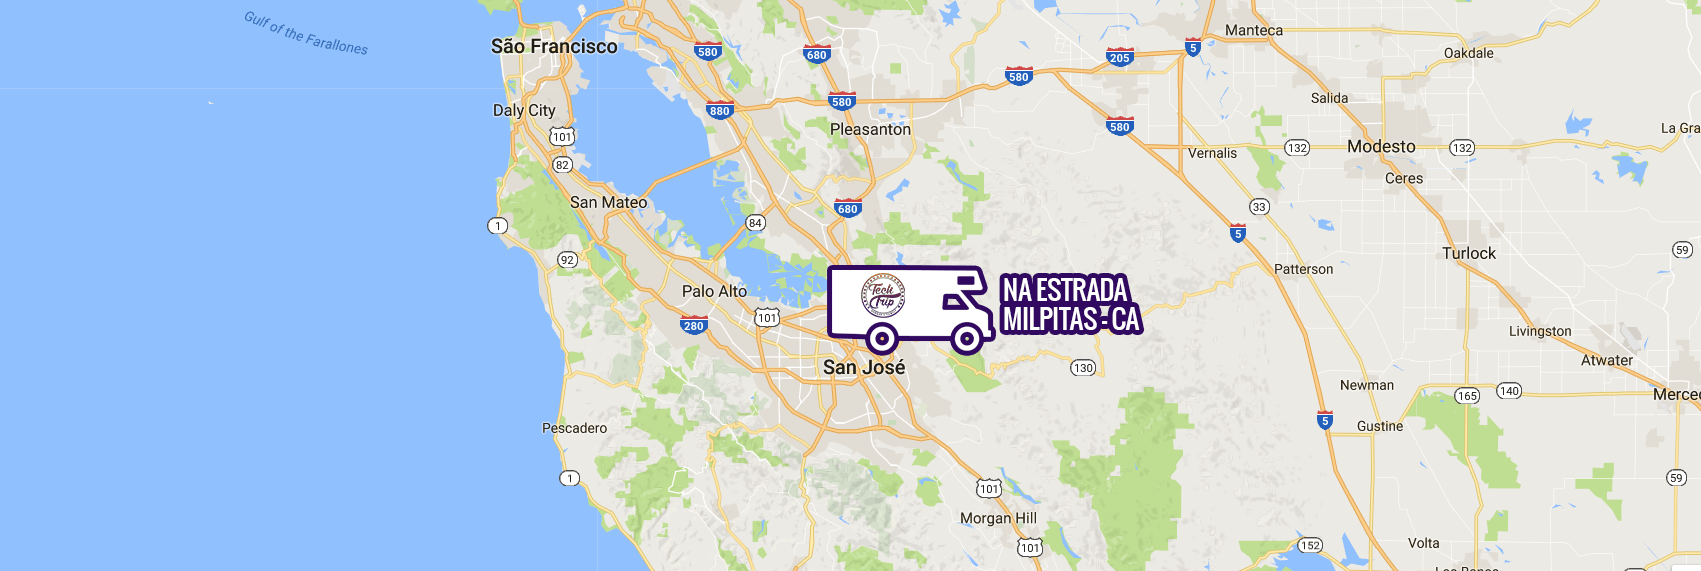
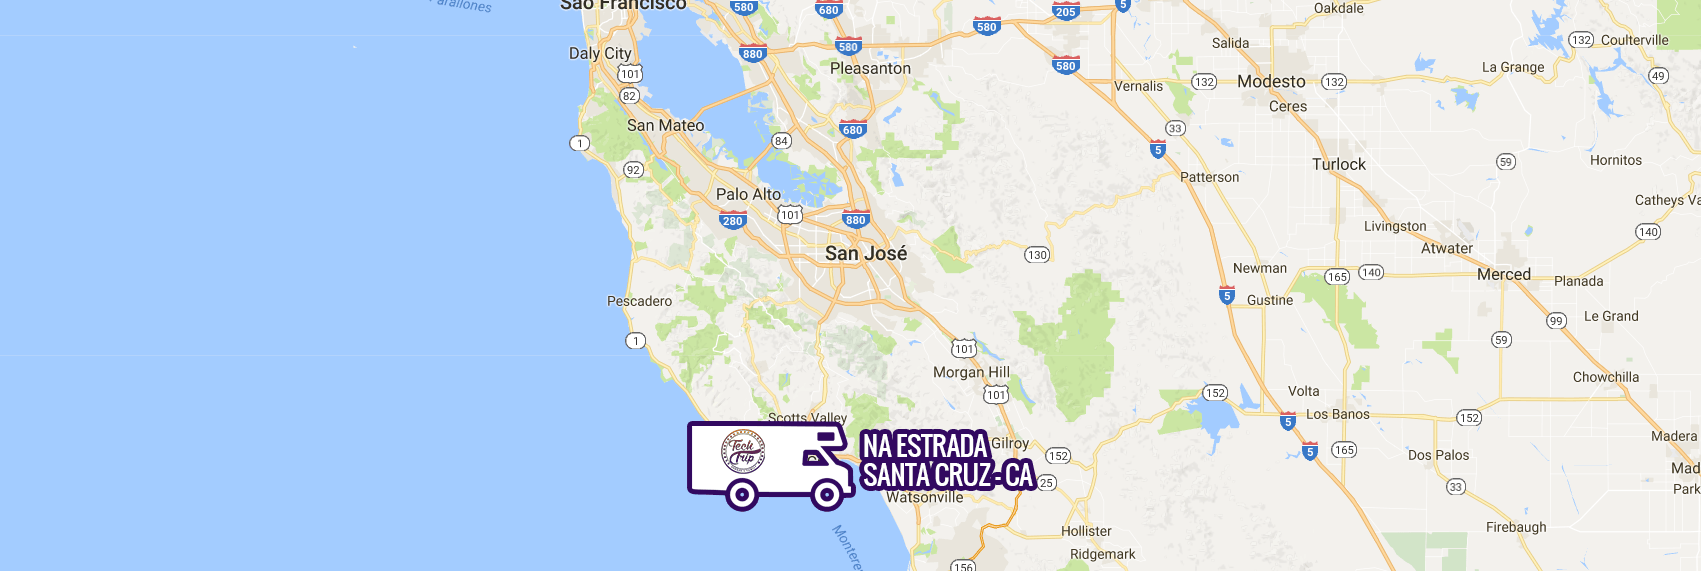
Correções o live, atualização do mapa, link direto para modal

diff --git a/app/index.html b/app/index.html
@@ -96,8 +96,8 @@
                                             Videos
                                         </a>
                                     </li>
-                                    <li style="display:none;" class="mnu-principal-item">
-                                        <a href="#">
+                                    <li class="mnu-principal-item">
+                                        <a href="javascript:void(0)" data-toggle="modal" data-target="#modal-live">
                                             Ao Vivo
                                         </a>
                                     </li>
@@ -254,7 +254,7 @@
         </section>
 
         <section class="mapa">
-            <img src="images/mapa.png" />
+            <img src="http://techtrips.com.br/content/mapa/mapa.png" />
         </section>
 
         <a name="insta-techtrips" class="anchor"></a>
@@ -543,6 +543,41 @@
                         <p>Após realizar pelo menos 20 viagens anteriores de Motorhome nesta região, Vinicius Senger, que além de motorista do Motorhome, é um “maker” aficionado por circuitos e solda, acredita que seja hora de desmistificar o Vale e a possibilidade de viajar para lá:</p>
                         <p>“As pessoas acreditam que seja muito complicado fazer esse tour de Motorhome. Nós aprendemos muito sobre organização e melhores preços nas viagens anteriores e conhecemos muitas pessoas nas principais empresas do Vale. Pareceu que hora de documentar tudo isso em um projeto bacana e recheado de tecnologia” afirma Vinícius Senger.</p>
                         <p>Neste espaço você vai encontrar em formato de texto os depoimentos sobre a viagem e o que passa pela cabeça dos nossos tripulantes. Acompanhe conteúdos semanalmente.</p>
+                    </div>
+                  </div>
+
+                  <div style="clear:both"></div>
+              </div>
+          </div>
+      </div>
+    </div>
+  </div>
+</div>
+
+<div id="modal-live" class="modal fade bd-example-modal-lg" tabindex="-1" role="dialog" aria-labelledby="" aria-hidden="true">
+  <div class="modal-dialog modal-lg">
+    <div class="modal-content">
+      <div class="modal-header">
+        <button type="button" class="close" data-dismiss="modal" aria-label="Close">
+          <span aria-hidden="true">&times;</span>
+        </button>
+      </div>
+      <div class="modal-body">
+          <div class="top-modal">
+              <div class="blog-content">
+
+                  <div class="container">
+                      <div class="row blog-title-level">
+                          <div class="col-md-12 col-sm-12 col-xs-12 blog-title">
+                              Reveja as lives da Tech Trip - Senger Family
+                          </div>
+                      </div>
+                    </div>
+                    <div class="row live-content">
+                        <div class="live-to-review">
+
+                        </div>
+                        
                     </div>
                   </div>
 

diff --git a/app/scripts/modal.js b/app/scripts/modal.js
@@ -1,0 +1,17 @@
+$(document).ready(function() {
+    var urlExternal = document.location.href
+        ,withmodal = urlExternal.split('#');
+    if(withmodal.length == 2){
+        var modal = withmodal[1];
+        if(document.getElementById(modal)){
+            $('#' + modal).modal('show');
+        }
+    }
+});
+
+//http://techtrips.com.br/#modal-naEstrada
+//http://techtrips.com.br/#modal-videos
+//http://techtrips.com.br/#modal-vlog
+//http://techtrips.com.br/#modal-demo
+//http://techtrips.com.br/#modal-instagram
+//http://techtrips.com.br/#modal-blog
